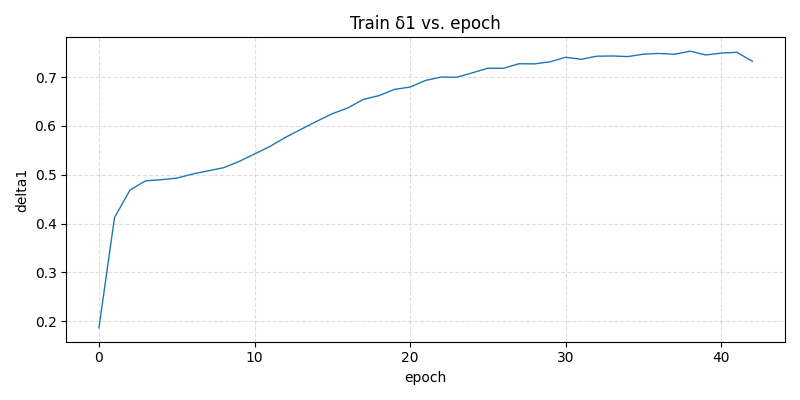
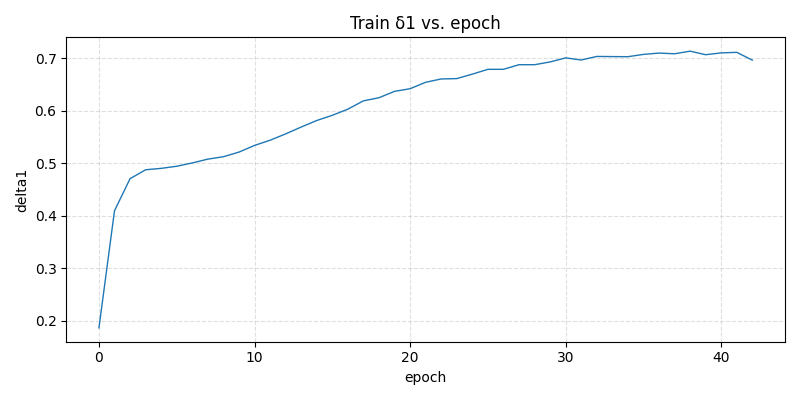
添加一个水平翻转数据增强，略有一点正则化提升

diff --git a/data/genx_utils/liosam_sequence.py b/data/genx_utils/liosam_sequence.py
@@ -14,6 +14,7 @@ import torch
 from torch.utils.data import Dataset
 
 from data.genx_utils.labels import SparselyBatchedObjectLabels
+from data.utils.augmentor import SpatialAugmentorPatchCrop
 from data.utils.types import DataType, LoaderDataDictGenX
 
 
@@ -191,6 +192,7 @@ class LiosamSequenceForIter(Dataset):
         convert_depth_to_log: bool = True,
         center_crop_hw: Optional[Tuple[int, int]] = None,
         normalize_events_nonzero: bool = False,
+        augmentor: Optional[SpatialAugmentorPatchCrop] = None,
     ):
         self.path = path
         self.frame_indices = frame_indices  # indices into entries for this sequence
@@ -206,6 +208,7 @@ class LiosamSequenceForIter(Dataset):
             tuple(int(x) for x in center_crop_hw) if center_crop_hw is not None else None
         )
         self.normalize_events_nonzero = bool(normalize_events_nonzero)
+        self.augmentor = augmentor
         self._padding_representation = None
         assert len(frame_indices) == sequence_length
 
@@ -221,6 +224,9 @@ class LiosamSequenceForIter(Dataset):
             if self.center_crop_hw is not None:
                 ch, cw = self.center_crop_hw
                 t = center_crop_tensor_2d(t, ch, cw)
+            if self.augmentor is not None:
+                # 用 augmentor 的输出尺寸（中心裁剪即可，padding 仅看形状）
+                t = center_crop_tensor_2d(t, self.augmentor.crop_h, self.augmentor.crop_w)
             self._padding_representation = t
         return self._padding_representation
 
@@ -283,7 +289,7 @@ class LiosamSequenceForIter(Dataset):
         sparse_labels = SparselyBatchedObjectLabels(
             sparse_object_labels_batch=[None] * self.seq_len
         )
-        return {
+        out = {
             DataType.EV_REPR: ev_repr,
             DataType.OBJLABELS_SEQ: sparse_labels,
             DataType.IS_FIRST_SAMPLE: True,
@@ -291,6 +297,9 @@ class LiosamSequenceForIter(Dataset):
             DataType.DEPTH: depths,
             DataType.DEPTH_MASK: masks,
         }
+        if self.augmentor is not None:
+            out = self.augmentor(out)
+        return out
 
 
 class LiosamSequenceForRandomAccess:
@@ -312,6 +321,7 @@ class LiosamSequenceForRandomAccess:
         convert_depth_to_log: bool = True,
         center_crop_hw: Optional[Tuple[int, int]] = None,
         normalize_events_nonzero: bool = False,
+        augmentor: Optional[SpatialAugmentorPatchCrop] = None,
     ):
         self.path = path
         self.frame_indices = frame_indices
@@ -327,6 +337,7 @@ class LiosamSequenceForRandomAccess:
             tuple(int(x) for x in center_crop_hw) if center_crop_hw is not None else None
         )
         self.normalize_events_nonzero = bool(normalize_events_nonzero)
+        self.augmentor = augmentor
         self.length = 1
         self._only_load_labels = False
 
@@ -367,7 +378,7 @@ class LiosamSequenceForRandomAccess:
         sparse_labels = SparselyBatchedObjectLabels(
             sparse_object_labels_batch=[None] * self.seq_len
         )
-        return {
+        out = {
             DataType.EV_REPR: ev_repr,
             DataType.OBJLABELS_SEQ: sparse_labels,
             DataType.IS_FIRST_SAMPLE: True,
@@ -375,6 +386,9 @@ class LiosamSequenceForRandomAccess:
             DataType.DEPTH: depths,
             DataType.DEPTH_MASK: masks,
         }
+        if self.augmentor is not None:
+            out = self.augmentor(out)
+        return out
 
     def only_load_labels(self):
         self._only_load_labels = True
@@ -403,6 +417,30 @@ def _extract_common_config(dataset_config: Dict[str, Any]) -> Dict[str, Any]:
         max_depth=float(depth_range.get("max", 100.0)),
         center_crop_hw=chw,
         normalize_events_nonzero=bool(dataset_config.get("normalize_events_nonzero", False)),
+    )
+
+
+def _build_patch_crop_augmentor(
+    dataset_config: Dict[str, Any],
+    training: bool,
+) -> Optional[SpatialAugmentorPatchCrop]:
+    """根据配置构造 patch crop 增强器；未配置 patch_crop_hw 则返回 None。"""
+    crop_hw = dataset_config.get("patch_crop_hw", None)
+    if crop_hw is None:
+        return None
+    augm_cfg = dataset_config.get("data_augmentation", {})
+    h_flip_prob = 0.5
+    if isinstance(augm_cfg, dict):
+        # 训练时优先取 random 配置（liosam 当前用 random access），其次 stream
+        sub = augm_cfg.get("random") if training else None
+        if not isinstance(sub, dict):
+            sub = augm_cfg.get("stream") if isinstance(augm_cfg.get("stream"), dict) else {}
+        if isinstance(sub, dict):
+            h_flip_prob = float(sub.get("prob_hflip", 0.5))
+    return SpatialAugmentorPatchCrop(
+        crop_hw=tuple(int(x) for x in crop_hw),
+        training=training,
+        h_flip_prob=h_flip_prob,
     )
 
 
@@ -436,6 +474,7 @@ def _build_windows_for_scene(
 def _make_stream_list(
     windows: List[SceneWindow],
     cfg: Dict[str, Any],
+    augmentor: Optional[SpatialAugmentorPatchCrop] = None,
 ) -> List[LiosamSequenceForIter]:
     return [
         LiosamSequenceForIter(
@@ -451,6 +490,7 @@ def _make_stream_list(
             convert_depth_to_log=True,
             center_crop_hw=cfg.get("center_crop_hw"),
             normalize_events_nonzero=cfg.get("normalize_events_nonzero", False),
+            augmentor=augmentor,
         )
         for scene_path, entries, wnd in windows
     ]
@@ -459,6 +499,7 @@ def _make_stream_list(
 def _make_rnd_list(
     windows: List[SceneWindow],
     cfg: Dict[str, Any],
+    augmentor: Optional[SpatialAugmentorPatchCrop] = None,
 ) -> List[LiosamSequenceForRandomAccess]:
     return [
         LiosamSequenceForRandomAccess(
@@ -474,6 +515,7 @@ def _make_rnd_list(
             convert_depth_to_log=True,
             center_crop_hw=cfg.get("center_crop_hw"),
             normalize_events_nonzero=cfg.get("normalize_events_nonzero", False),
+            augmentor=augmentor,
         )
         for scene_path, entries, wnd in windows
     ]
@@ -535,10 +577,13 @@ def build_liosam_sequences(
     if not train_windows and not val_windows:
         return [], [], [], []
 
-    train_stream = _make_stream_list(train_windows, cfg)
-    val_stream = _make_stream_list(val_windows, cfg)
-    train_rnd = _make_rnd_list(train_windows, cfg)
-    val_rnd = _make_rnd_list(val_windows, cfg)
+    train_augm = _build_patch_crop_augmentor(dataset_config, training=True)
+    val_augm = _build_patch_crop_augmentor(dataset_config, training=False)
+
+    train_stream = _make_stream_list(train_windows, cfg, augmentor=train_augm)
+    val_stream = _make_stream_list(val_windows, cfg, augmentor=val_augm)
+    train_rnd = _make_rnd_list(train_windows, cfg, augmentor=train_augm)
+    val_rnd = _make_rnd_list(val_windows, cfg, augmentor=val_augm)
     return train_stream, val_stream, train_rnd, val_rnd
 
 

diff --git a/data/utils/augmentor.py b/data/utils/augmentor.py
@@ -18,6 +18,63 @@ NO_LABEL_WARN_MSG = 'No Labels found. This can lead to a crash and should not ha
 filterwarnings('always', message=NO_LABEL_WARN_MSG)
 
 
+class SpatialAugmentorPatchCrop:
+    """序列级 patch 裁剪 + 水平翻转（参考 rpg_e2depth）。
+
+    训练：每次 __call__ 随机采样 (y0, x0) 与是否 h-flip；同一次调用对所有帧
+    使用相同的窗口与翻转，从而保证一个序列内时序一致。
+    验证/测试：固定中心裁剪，不翻转。
+
+    输入数据为 LoaderDataDictGenX，期望含 DataType.EV_REPR（List[Tensor (C,H,W)]），
+    可选 DataType.DEPTH / DataType.DEPTH_MASK（List[Tensor (1,H,W)]）。
+    """
+
+    def __init__(self,
+                 crop_hw: Tuple[int, int],
+                 training: bool,
+                 h_flip_prob: float = 0.5):
+        ch, cw = int(crop_hw[0]), int(crop_hw[1])
+        assert ch > 0 and cw > 0
+        self.crop_h = ch
+        self.crop_w = cw
+        self.training = bool(training)
+        self.h_flip_prob = float(h_flip_prob) if self.training else 0.0
+        assert 0.0 <= self.h_flip_prob <= 1.0
+
+    def _sample_window(self, in_h: int, in_w: int) -> Tuple[int, int, bool]:
+        assert in_h >= self.crop_h and in_w >= self.crop_w, \
+            f'input ({in_h}x{in_w}) smaller than crop ({self.crop_h}x{self.crop_w})'
+        if self.training:
+            y0 = int(th.randint(0, in_h - self.crop_h + 1, (1,)).item())
+            x0 = int(th.randint(0, in_w - self.crop_w + 1, (1,)).item())
+            do_flip = th.rand(1).item() < self.h_flip_prob
+        else:
+            y0 = (in_h - self.crop_h) // 2
+            x0 = (in_w - self.crop_w) // 2
+            do_flip = False
+        return y0, x0, do_flip
+
+    def _apply(self, t: th.Tensor, y0: int, x0: int, do_flip: bool) -> th.Tensor:
+        out = t[..., y0:y0 + self.crop_h, x0:x0 + self.crop_w]
+        if do_flip:
+            out = th.flip(out, dims=[-1])
+        return out
+
+    def __call__(self, item: LoaderDataDictGenX) -> LoaderDataDictGenX:
+        ev_list = item.get(DataType.EV_REPR, None)
+        if ev_list is None or len(ev_list) == 0:
+            return item
+        in_h, in_w = ev_list[0].shape[-2:]
+        y0, x0, do_flip = self._sample_window(int(in_h), int(in_w))
+
+        item[DataType.EV_REPR] = [self._apply(t, y0, x0, do_flip) for t in ev_list]
+        if DataType.DEPTH in item:
+            item[DataType.DEPTH] = [self._apply(t, y0, x0, do_flip) for t in item[DataType.DEPTH]]
+        if DataType.DEPTH_MASK in item:
+            item[DataType.DEPTH_MASK] = [self._apply(t, y0, x0, do_flip) for t in item[DataType.DEPTH_MASK]]
+        return item
+
+
 @dataclass
 class ZoomOutState:
     active: bool

diff --git a/run_depth.py b/run_depth.py
@@ -186,8 +186,13 @@ def main():
     with open(args.config, "r", encoding="utf-8") as f:
         config = yaml.safe_load(f)
 
+    # 推理覆写：训练用 patch_crop_hw=[112,112] 配套的 in_res_hw=[112,112]，
+    # 但推理输入仍为 center_crop_hw=[256,344]。网络全卷积，权重直接复用，
+    # 只需把 input_padder 的目标尺寸改大到能容纳 256x344。
     ds_cfg = config["dataset"]
     center_crop_hw = tuple(int(v) for v in ds_cfg["center_crop_hw"])
+    config["model"]["backbone"]["in_res_hw"] = list(center_crop_hw)
+    print(f"[INFO] 推理覆写 in_res_hw -> {center_crop_hw}")
     normalize_events = bool(ds_cfg.get("normalize_events_nonzero", False))
     ev_key = ds_cfg.get("ev_key", DEFAULT_EV_KEY)
     depth_key = ds_cfg.get("depth_key", DEFAULT_DEPTH_KEY)
